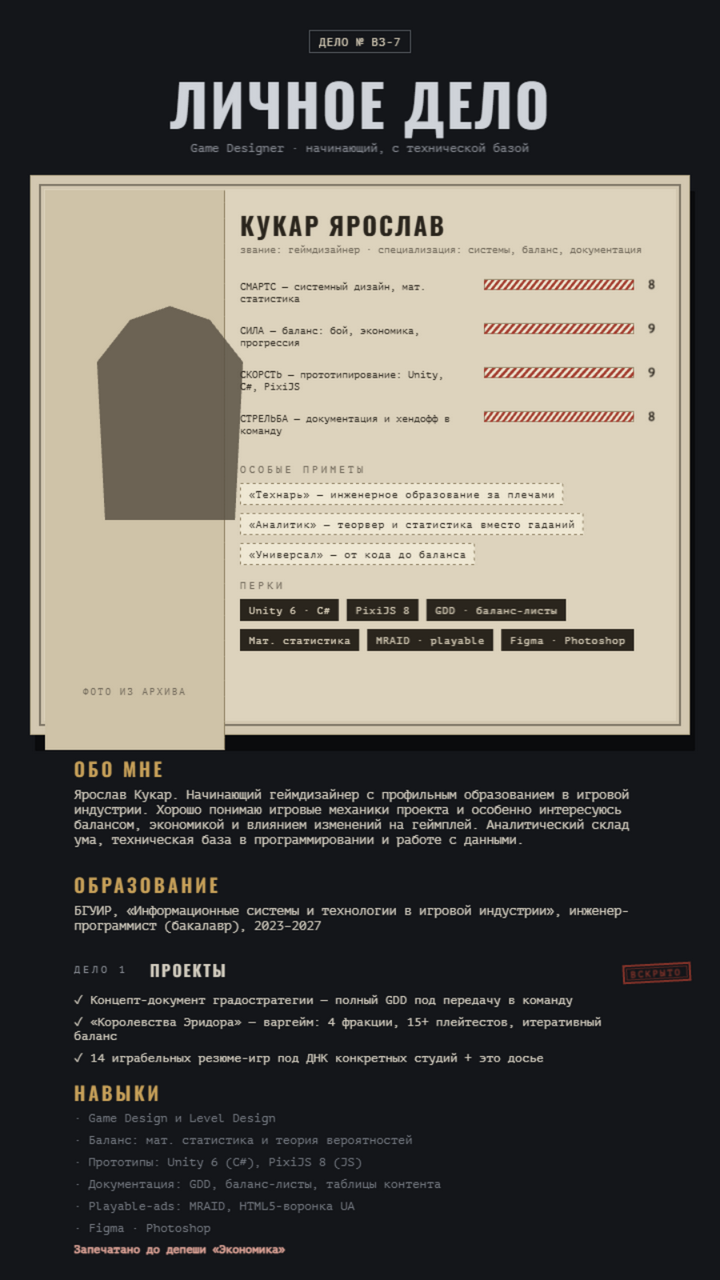
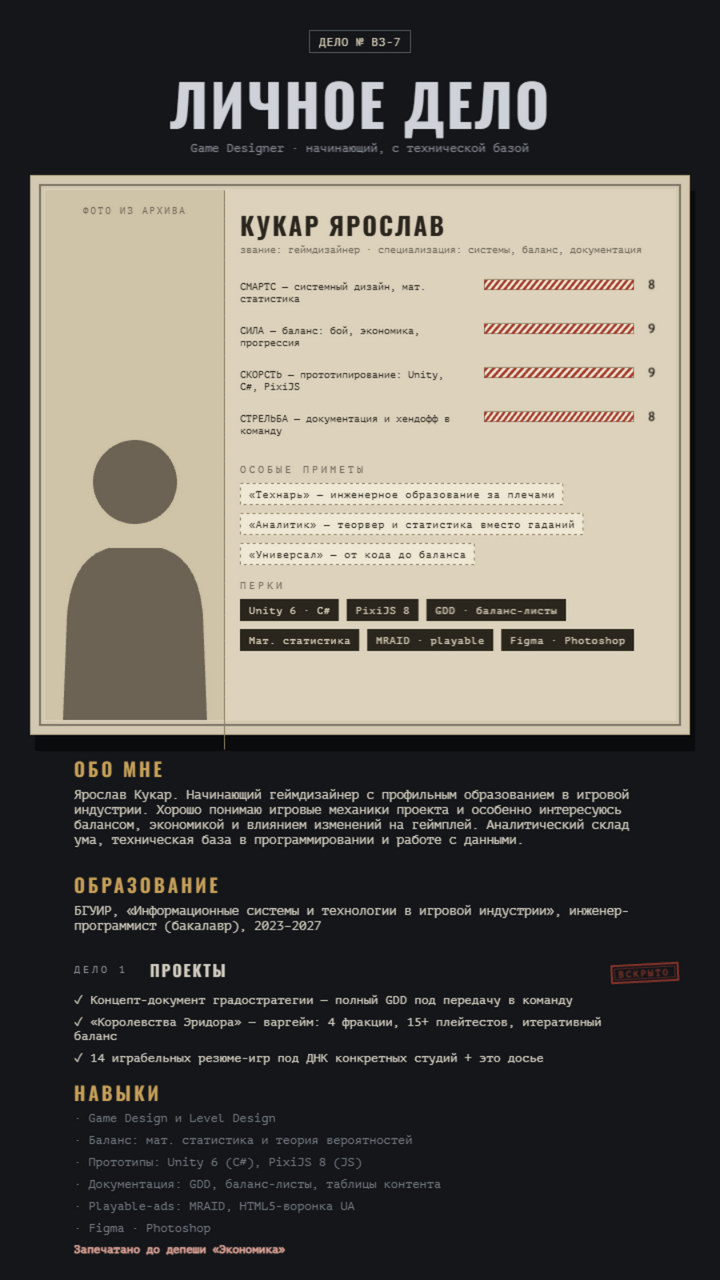
Полировка по скриншотам с телефона: мугшот вместо обрубка, метка и улики без наездов, различимые линии тюнера, z-порядок оверлеев, контраст ghost-кнопок

Changed region(s): [[0.0611, 0.2188, 0.3361, 0.5938], [0.8556, 0.75, 0.9778, 0.7812]]

diff --git a/index.html b/index.html
@@ -2820,11 +2820,11 @@ CV.DATA = {
     { id: 'o5', needs: ['s4'],             opens: 'stack' },
   ],
 
-  // 3 улики: у палатки, у прииска, у форта
+  // 3 улики: на свободных полях листа, вне плиток станций
   nuggets: [
-    { id: 'n1', x: 260, y: 345 },
-    { id: 'n2', x: 540, y: 250 },
-    { id: 'n3', x: 430, y: 1050 },
+    { id: 'n1', x: 315, y: 375 },
+    { id: 'n2', x: 620, y: 310 },
+    { id: 'n3', x: 520, y: 1080 },
   ],
 
   // награды депеш — какие блоки открываются в личном деле
@@ -2987,7 +2987,7 @@ window.CV = window.CV || {};
     };
     drawBg(up, false); drawBg(down, true);
     const size = opts.size || 15;
-    const mkText = () => CV.makeText(label, size, opts.red ? C.paperLight : (opts.ghost ? C.paper : C.ink), { ls: size * 0.22, upper: true });
+    const mkText = () => CV.makeText(label, size, opts.red ? C.paperLight : (opts.ghost ? 0xe8e4d8 : C.ink), { ls: size * 0.22, upper: true });
     const t = mkText();
     t.anchor.set(0.5); t.position.set(w / 2, h / 2 - 1);
     c.addChild(up, t);
@@ -3730,16 +3730,18 @@ CV.scenes.map = (view, app) => {
     clueViews.set(n.id, c);
   }
 
-  // ── метка «вы здесь» ──
+  // ── метка «вы здесь»: подпись под точкой, поверх плиток ──
   const worker = new PIXI.Container();
   const pin = new PIXI.Graphics();
   pin.beginFill(C.stamp); pin.drawCircle(0, 0, 6); pin.endFill();
   pin.circle(0, 0, 10); pin.stroke({ width: 2, color: C.stamp, alpha: 0.55 });
   const hereT = CV.makeText(CV.t('map.youAreHere'), 10, C.stamp, { ls: 2, upper: true });
-  hereT.anchor.set(0.5, 1); hereT.position.set(0, -16);
+  hereT.anchor.set(0.5, 0); hereT.position.set(0, 16);
   worker.addChild(pin, hereT);
   worker.position.set(190, 380);
+  worker.zIndex = 50;
   layers.addChild(worker);
+  layers.sortableChildren = true;
 
   // ── HUD: служебная полоса дела ──
   const hud = new PIXI.Container();
@@ -3791,7 +3793,7 @@ CV.scenes.map = (view, app) => {
   const toast = (text) => {
     const c = CV.makeChip(text, { ghost: true, line: C.stamp, color: C.paperLight, size: 13, padX: 16 });
     c.position.set(W() / 2 - c.w / 2, 74);
-    c.zIndex = 500; layers.addChild(c); layers.sortableChildren = true;
+    c.zIndex = 950; layers.addChild(c); layers.sortableChildren = true;
     CV.tween(c, { y: 88 }, 200).then(() =>
       setTimeout(() => { CV.tween(c, { alpha: 0 }, 300).then(() => c.destroy()); }, 1600));
   };
@@ -3800,6 +3802,7 @@ CV.scenes.map = (view, app) => {
   const factLayer = new PIXI.Container();
   factLayer.eventMode = 'static';
   factLayer.visible = false;
+  factLayer.zIndex = 900; // поверх метки «вы здесь» и плиток
   layers.addChild(factLayer);
   const showFacts = (st) => {
     factLayer.removeChildren().forEach(c => c.destroy({ children: true }));
@@ -3949,6 +3952,7 @@ CV.scenes.map = (view, app) => {
   const ordersLayer = new PIXI.Container();
   ordersLayer.eventMode = 'static';
   ordersLayer.visible = false;
+  ordersLayer.zIndex = 900;
   layers.addChild(ordersLayer);
 
   const buildOrders = () => {
@@ -4245,13 +4249,13 @@ CV.scenes.tuner = (view, app) => {
     line(result.series.plan, C.goldDeep, 3.5);
     line(result.series.avg, C.ink, 2.6);
     line(result.series.newbie, 0x7d8ea0, 2, 0.9);
-    line(result.series.pro, 0xb39a68, 2, 0.9);
+    line(result.series.pro, 0x6e7f72, 2, 0.9);
   };
 
   // легенда
   const legend = new PIXI.Container();
   const legendDefs = [
-    ['tuner.chartPlan', C.goldDeep], ['tuner.chartAvg', C.ink], ['tuner.chartNew', 0x7d8ea0], ['tuner.chartPro', 0xb39a68],
+    ['tuner.chartPlan', C.goldDeep], ['tuner.chartAvg', C.ink], ['tuner.chartNew', 0x7d8ea0], ['tuner.chartPro', 0x6e7f72],
   ];
   let lx = 0;
   legendDefs.forEach(([key, color]) => {
@@ -4356,20 +4360,24 @@ CV.scenes.sheet = (view, app) => {
   const RX = cardX + 210; // правая колонка
   const RW = 660 - 210 - 30;
 
-  // фото: тёмный силуэт из архива
+  // фото: тёмный силуэт из архива — голова и плечи, вросшие в нижний край
   const photoBg = new PIXI.Graphics();
-  photoBg.beginFill(C.paperDark); photoBg.drawRect(0, 0, 180, CARD_H); photoBg.endFill();
+  photoBg.beginFill(C.paperDark); photoBg.drawRect(0, 0, 180, CARD_H - 30); photoBg.endFill();
   photoBg.setStrokeStyle({ width: 1, color: 0x8d7f61 });
   CV.dashedRect(photoBg, 179.5, 0.5, 0, CARD_H - 1, 4, 4); photoBg.stroke();
   photoBg.position.set(cardX + 15, cardY + 15);
   const sil = new PIXI.Graphics();
   sil.beginFill(0x5a5245, 0.85);
-  sil.drawPolygon([45, 240, 37, 82, 70, 40, 110, 26, 150, 40, 183, 82, 175, 240]);
-  sil.endFill();
-  sil.position.set(photoBg.x + 15, photoBg.y + 90);
+  sil.circle(80, 62, 42); sil.endFill(); // голова
+  sil.beginFill(0x5a5245, 0.85);
+  sil.moveTo(8, 300); sil.lineTo(12, 196);
+  sil.quadraticCurveTo(16, 138, 54, 128); sil.lineTo(106, 128);
+  sil.quadraticCurveTo(144, 138, 148, 196); sil.lineTo(152, 300);
+  sil.closePath(); sil.endFill(); // плечи до нижнего края кадра
+  sil.position.set(photoBg.x + 10, photoBg.y + (CARD_H - 30) - 300);
   const photoCap = CV.makeText(CV.t('sheet.photo'), 9, C.ink60, { ls: 2, upper: true });
-  photoCap.anchor.set(0.5);
-  photoCap.position.set(photoBg.x + 90, cardY + CARD_H - 44);
+  photoCap.anchor.set(0.5, 0);
+  photoCap.position.set(photoBg.x + 90, photoBg.y + 14);
   content.addChild(photoBg, sil, photoCap);
 
   // имя и звание
@@ -4472,7 +4480,7 @@ CV.scenes.sheet = (view, app) => {
     no.position.set(74, y + 4);
     nm.position.set(150, y);
     if (nm.width > 400) nm.scale.set(400 / nm.width);
-    tag.position.set(690 - tag.w / 2, y + 14);
+    tag.position.set(678 - tag.w / 2, y + 14);
     content.addChild(headRow);
     y += 34;
     items.forEach(k => para((ok ? '✓ ' : '· ') + CV.t('sheet.' + k), 12, ok ? 0xd6d0c2 : 0x767b83));
@@ -4615,7 +4623,7 @@ CV.scenes.victory = (view, app) => {
 
   const bPdf = CV.makeButton(CV.t('sheet.dl'), 340, { height: 60, size: 13, red: true, onTap: () => { CV.Sfx.tap(); window.open(CV.DATA.contacts.pdf, '_blank'); } });
   bPdf.position.set(W() / 2 - 170, 786);
-  const bMail = CV.makeButton(CV.t('victory.write'), 340, { height: 54, size: 12, onTap: () => { CV.Sfx.tap(); window.open(CV.DATA.contacts.mailto, '_blank'); } });
+  const bMail = CV.makeButton(CV.t('victory.write'), 340, { height: 54, size: 13, onTap: () => { CV.Sfx.tap(); window.open(CV.DATA.contacts.mailto, '_blank'); } });
   bMail.position.set(W() / 2 - 170, 862);
   const bGh = CV.makeChip(CV.DATA.contacts.github, { ghost: true, size: 12, color: C.gold, line: C.goldDeep, padX: 14 });
   bGh.eventMode = 'static'; bGh.cursor = 'pointer';
@@ -4627,7 +4635,7 @@ CV.scenes.victory = (view, app) => {
   back.position.set(W() / 2 - 85, H() - 66);
   view.addChild(back);
 
-  view.addChild(CV.makeVignette(app, 0.4));
+  view.addChild(CV.makeVignette(app, 0.3));
 
   return {
     update(dt) {

diff --git a/src/scenes/sheet.js b/src/scenes/sheet.js
@@ -37,20 +37,24 @@ CV.scenes.sheet = (view, app) => {
   const RX = cardX + 210; // правая колонка
   const RW = 660 - 210 - 30;
 
-  // фото: тёмный силуэт из архива
+  // фото: тёмный силуэт из архива — голова и плечи, вросшие в нижний край
   const photoBg = new PIXI.Graphics();
-  photoBg.beginFill(C.paperDark); photoBg.drawRect(0, 0, 180, CARD_H); photoBg.endFill();
+  photoBg.beginFill(C.paperDark); photoBg.drawRect(0, 0, 180, CARD_H - 30); photoBg.endFill();
   photoBg.setStrokeStyle({ width: 1, color: 0x8d7f61 });
   CV.dashedRect(photoBg, 179.5, 0.5, 0, CARD_H - 1, 4, 4); photoBg.stroke();
   photoBg.position.set(cardX + 15, cardY + 15);
   const sil = new PIXI.Graphics();
   sil.beginFill(0x5a5245, 0.85);
-  sil.drawPolygon([45, 240, 37, 82, 70, 40, 110, 26, 150, 40, 183, 82, 175, 240]);
-  sil.endFill();
-  sil.position.set(photoBg.x + 15, photoBg.y + 90);
+  sil.circle(80, 62, 42); sil.endFill(); // голова
+  sil.beginFill(0x5a5245, 0.85);
+  sil.moveTo(8, 300); sil.lineTo(12, 196);
+  sil.quadraticCurveTo(16, 138, 54, 128); sil.lineTo(106, 128);
+  sil.quadraticCurveTo(144, 138, 148, 196); sil.lineTo(152, 300);
+  sil.closePath(); sil.endFill(); // плечи до нижнего края кадра
+  sil.position.set(photoBg.x + 10, photoBg.y + (CARD_H - 30) - 300);
   const photoCap = CV.makeText(CV.t('sheet.photo'), 9, C.ink60, { ls: 2, upper: true });
-  photoCap.anchor.set(0.5);
-  photoCap.position.set(photoBg.x + 90, cardY + CARD_H - 44);
+  photoCap.anchor.set(0.5, 0);
+  photoCap.position.set(photoBg.x + 90, photoBg.y + 14);
   content.addChild(photoBg, sil, photoCap);
 
   // имя и звание
@@ -153,7 +157,7 @@ CV.scenes.sheet = (view, app) => {
     no.position.set(74, y + 4);
     nm.position.set(150, y);
     if (nm.width > 400) nm.scale.set(400 / nm.width);
-    tag.position.set(690 - tag.w / 2, y + 14);
+    tag.position.set(678 - tag.w / 2, y + 14);
     content.addChild(headRow);
     y += 34;
     items.forEach(k => para((ok ? '✓ ' : '· ') + CV.t('sheet.' + k), 12, ok ? 0xd6d0c2 : 0x767b83));

diff --git a/src/scenes/map.js b/src/scenes/map.js
@@ -140,16 +140,18 @@ CV.scenes.map = (view, app) => {
     clueViews.set(n.id, c);
   }
 
-  // ── метка «вы здесь» ──
+  // ── метка «вы здесь»: подпись под точкой, поверх плиток ──
   const worker = new PIXI.Container();
   const pin = new PIXI.Graphics();
   pin.beginFill(C.stamp); pin.drawCircle(0, 0, 6); pin.endFill();
   pin.circle(0, 0, 10); pin.stroke({ width: 2, color: C.stamp, alpha: 0.55 });
   const hereT = CV.makeText(CV.t('map.youAreHere'), 10, C.stamp, { ls: 2, upper: true });
-  hereT.anchor.set(0.5, 1); hereT.position.set(0, -16);
+  hereT.anchor.set(0.5, 0); hereT.position.set(0, 16);
   worker.addChild(pin, hereT);
   worker.position.set(190, 380);
+  worker.zIndex = 50;
   layers.addChild(worker);
+  layers.sortableChildren = true;
 
   // ── HUD: служебная полоса дела ──
   const hud = new PIXI.Container();
@@ -201,7 +203,7 @@ CV.scenes.map = (view, app) => {
   const toast = (text) => {
     const c = CV.makeChip(text, { ghost: true, line: C.stamp, color: C.paperLight, size: 13, padX: 16 });
     c.position.set(W() / 2 - c.w / 2, 74);
-    c.zIndex = 500; layers.addChild(c); layers.sortableChildren = true;
+    c.zIndex = 950; layers.addChild(c); layers.sortableChildren = true;
     CV.tween(c, { y: 88 }, 200).then(() =>
       setTimeout(() => { CV.tween(c, { alpha: 0 }, 300).then(() => c.destroy()); }, 1600));
   };
@@ -210,6 +212,7 @@ CV.scenes.map = (view, app) => {
   const factLayer = new PIXI.Container();
   factLayer.eventMode = 'static';
   factLayer.visible = false;
+  factLayer.zIndex = 900; // поверх метки «вы здесь» и плиток
   layers.addChild(factLayer);
   const showFacts = (st) => {
     factLayer.removeChildren().forEach(c => c.destroy({ children: true }));
@@ -359,6 +362,7 @@ CV.scenes.map = (view, app) => {
   const ordersLayer = new PIXI.Container();
   ordersLayer.eventMode = 'static';
   ordersLayer.visible = false;
+  ordersLayer.zIndex = 900;
   layers.addChild(ordersLayer);
 
   const buildOrders = () => {

diff --git a/src/scenes/victory.js b/src/scenes/victory.js
@@ -62,7 +62,7 @@ CV.scenes.victory = (view, app) => {
 
   const bPdf = CV.makeButton(CV.t('sheet.dl'), 340, { height: 60, size: 13, red: true, onTap: () => { CV.Sfx.tap(); window.open(CV.DATA.contacts.pdf, '_blank'); } });
   bPdf.position.set(W() / 2 - 170, 786);
-  const bMail = CV.makeButton(CV.t('victory.write'), 340, { height: 54, size: 12, onTap: () => { CV.Sfx.tap(); window.open(CV.DATA.contacts.mailto, '_blank'); } });
+  const bMail = CV.makeButton(CV.t('victory.write'), 340, { height: 54, size: 13, onTap: () => { CV.Sfx.tap(); window.open(CV.DATA.contacts.mailto, '_blank'); } });
   bMail.position.set(W() / 2 - 170, 862);
   const bGh = CV.makeChip(CV.DATA.contacts.github, { ghost: true, size: 12, color: C.gold, line: C.goldDeep, padX: 14 });
   bGh.eventMode = 'static'; bGh.cursor = 'pointer';
@@ -74,7 +74,7 @@ CV.scenes.victory = (view, app) => {
   back.position.set(W() / 2 - 85, H() - 66);
   view.addChild(back);
 
-  view.addChild(CV.makeVignette(app, 0.4));
+  view.addChild(CV.makeVignette(app, 0.3));
 
   return {
     update(dt) {

diff --git a/src/scenes/tunerview.js b/src/scenes/tunerview.js
@@ -159,13 +159,13 @@ CV.scenes.tuner = (view, app) => {
     line(result.series.plan, C.goldDeep, 3.5);
     line(result.series.avg, C.ink, 2.6);
     line(result.series.newbie, 0x7d8ea0, 2, 0.9);
-    line(result.series.pro, 0xb39a68, 2, 0.9);
+    line(result.series.pro, 0x6e7f72, 2, 0.9);
   };
 
   // легенда
   const legend = new PIXI.Container();
   const legendDefs = [
-    ['tuner.chartPlan', C.goldDeep], ['tuner.chartAvg', C.ink], ['tuner.chartNew', 0x7d8ea0], ['tuner.chartPro', 0xb39a68],
+    ['tuner.chartPlan', C.goldDeep], ['tuner.chartAvg', C.ink], ['tuner.chartNew', 0x7d8ea0], ['tuner.chartPro', 0x6e7f72],
   ];
   let lx = 0;
   legendDefs.forEach(([key, color]) => {

diff --git a/src/data.js b/src/data.js
@@ -21,11 +21,11 @@ CV.DATA = {
     { id: 'o5', needs: ['s4'],             opens: 'stack' },
   ],
 
-  // 3 улики: у палатки, у прииска, у форта
+  // 3 улики: на свободных полях листа, вне плиток станций
   nuggets: [
-    { id: 'n1', x: 260, y: 345 },
-    { id: 'n2', x: 540, y: 250 },
-    { id: 'n3', x: 430, y: 1050 },
+    { id: 'n1', x: 315, y: 375 },
+    { id: 'n2', x: 620, y: 310 },
+    { id: 'n3', x: 520, y: 1080 },
   ],
 
   // награды депеш — какие блоки открываются в личном деле

diff --git a/src/theme.js b/src/theme.js
@@ -132,7 +132,7 @@ window.CV = window.CV || {};
     };
     drawBg(up, false); drawBg(down, true);
     const size = opts.size || 15;
-    const mkText = () => CV.makeText(label, size, opts.red ? C.paperLight : (opts.ghost ? C.paper : C.ink), { ls: size * 0.22, upper: true });
+    const mkText = () => CV.makeText(label, size, opts.red ? C.paperLight : (opts.ghost ? 0xe8e4d8 : C.ink), { ls: size * 0.22, upper: true });
     const t = mkText();
     t.anchor.set(0.5); t.position.set(w / 2, h / 2 - 1);
     c.addChild(up, t);
